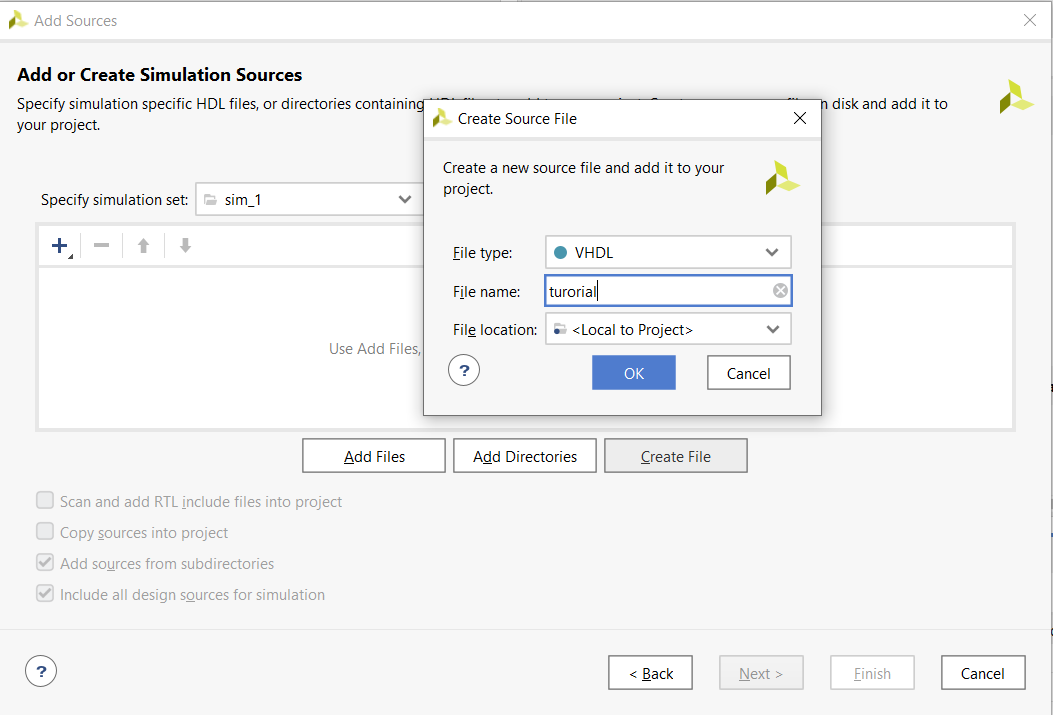
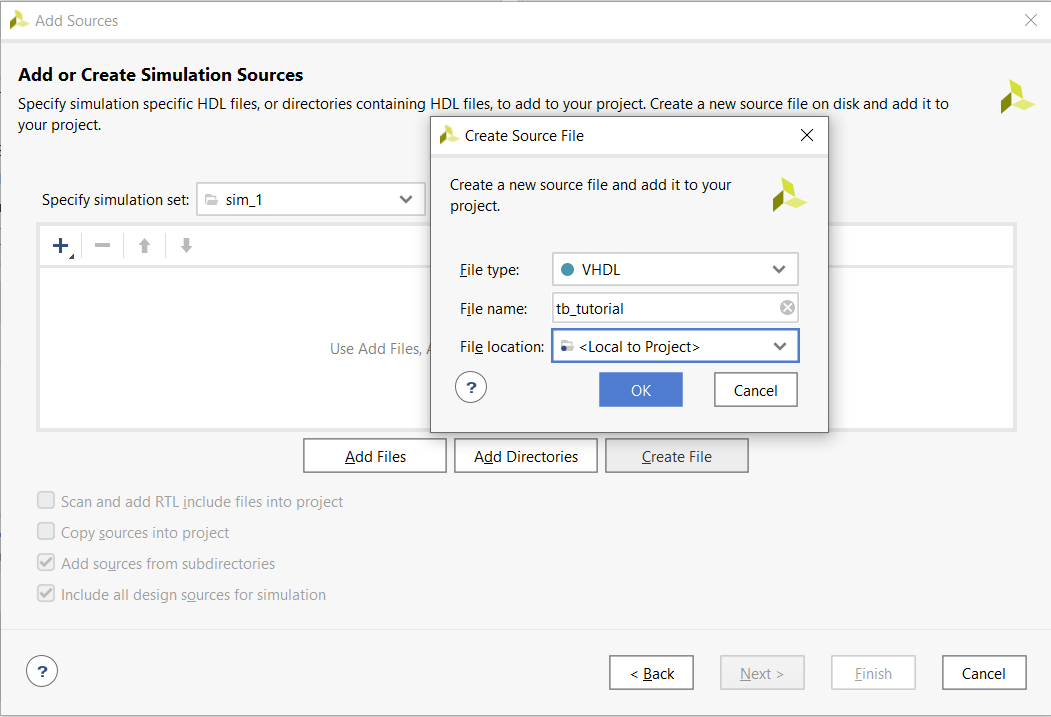
updated Lab03

diff --git a/Labs/03-vivado/README.md b/Labs/03-vivado/README.md
@@ -1,5 +1,5 @@
 # 1. Preparation tasks 
-### Figure or table with connection of 16 slide switches and 16 LEDs on Nexys A7 board.
+### Table with connection of 16 slide switches and 16 LEDs on Nexys A7 board.
 
 |   LEDs   | Connection     | Switches | Connection |
 | :--: | :--: | :--: | :--: |
@@ -86,12 +86,19 @@ p_stimulus : process
 # 3. A Vivado tutorial
 ### Project creation
 
+First option - Quick Start -> Create Project
+
 ![1.way](Images/create1.png)
 
-Second option
+Second option - File -> Project -> New...
+
 ![2.way](Images/create2.png)
 
+Here we type name of the project and choose the directory where the project data will be stored.
+
 ![path](Images/create4.png)
+
+Here we choose project type to RTL Project.
 
 ![type](Images/create3.png)
 
@@ -101,18 +108,48 @@ We can add source file during the creation of the project or after the creation 
 
 ![add](Images/Addsources1.png)
 
+Here we choose Add or create design sources.
+
 ![add2](Images/Addsources2.png)
+
+Then we click on Create File, choose VHDL in column File type and fill in the File name.
 
 ![add3](Images/Addsources.png)
 
 ### Adding testbench file
 
+File -> Add Sources...
+
 ![tb](Images/Addsources1.png)
 
+Here we choose Add or create simulation sources and click on Next.
+
 ![add](Images/testbench.png)
+
+Then we click on Create File, choose VHDL in column File type and fill in the File name.
 
 ![tb1](Images/testbench1.png)
 
 ### Running simulation
 
+First option - in Flow Navigator
+
 ![simulation](Images/simulation.png)
+
+Second option - Flow -> Run Simulation -> Run Behavioral Simulation
+
+![simulation1](Images/simulation1.png)
+
+### Adding XDC constraints file
+
+File -> Add Sources...
+
+![XDC](Images/Addsources1.png)
+
+Here we choose the first option - Add or create constrains
+
+![xdc](Images/xdc.png)
+
+Then we click on Create File and choose XDC in column File type and fill in the File name.
+
+![xdc1](Images/xdc1.png)
